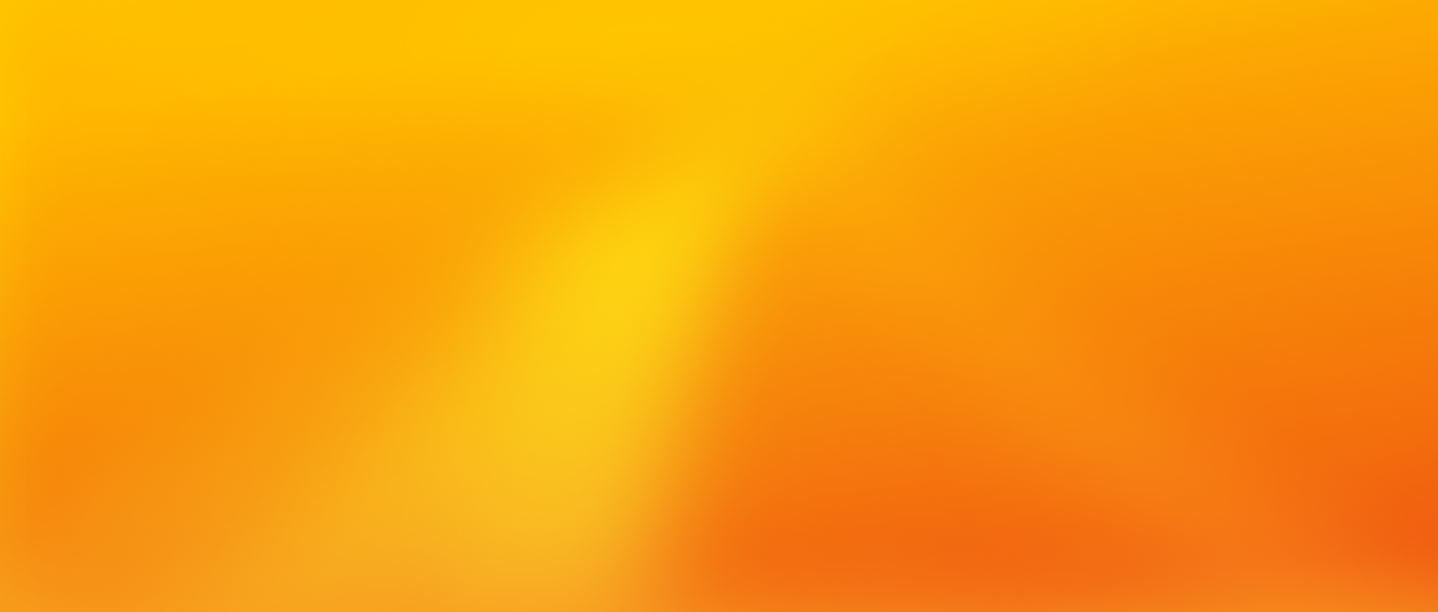
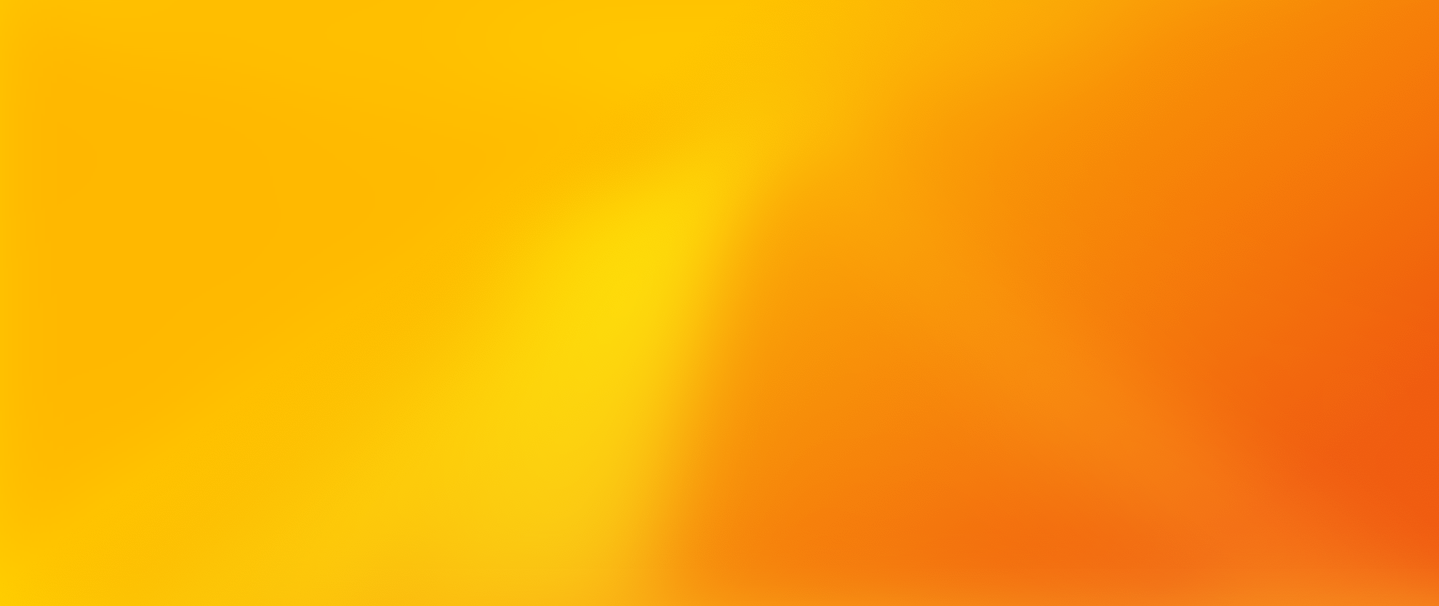
update

Changed region(s): [[0.0, 0.3861, 0.3366, 1.0], [0.7955, 0.0, 1.0, 0.5941]]

diff --git a/Vista-Motors-Dealer/index.html b/Vista-Motors-Dealer/index.html
@@ -11,9 +11,9 @@
     <title>Vista Motors Dealer</title>
 </head>
 <body>
-    <header>
-        <div class="container-fluid">
-            <nav class="navbar navbar-expand-lg navbar-dark bg-warning mr-auto">
+    <header class="background">
+        <div class="container">
+            <nav class="navbar navbar-expand-lg navbar-dark mr-auto" id="navbar">
                 <a class="navbar-brand" href="#">Vista Motors</a>
                 <button class="navbar-toggler" type="button" data-toggle="collapse" data-target="#navbarSupportedContent" aria-controls="navbarSupportedContent" aria-expanded="false" aria-label="Toggle navigation">
                     <span class="navbar-toggler-icon"></span>
@@ -33,7 +33,7 @@
                         <li class="nav-item">
                             <a class="nav-link" href="#">Đăng nhập</a>
                         </li>
-
+                        
                     </ul>
                 </div>
             </nav>
@@ -41,10 +41,86 @@
         
     </header>
     <section>
+        <div class="container">
+            <div class="jumbotron background">
+                <h1 class="display-4 text-center" style="color:white;">Find Your Dream Car</h1>
+                <p class="lead text-center" style="color:white;">Search over 20,000 pre-approved used cars and find your perfect vehicle today</p>
+                <div class="text-center">
+                    <a class="btn btn-primary btn-lg btn-success" href="#" role="button">Learn more</a>
+                </div>
+            </div>
+        </div>
         
+        <div class="section-1">
+            <div class="text-center">
+                <h2>Today’s Hottests Deals</h2>
+                <p>Check out the most popular cars in stock today</p>
+            </div>
+            <div class="text-center container-fluid">
+                <img src="img/Group 6.png" alt="">
+            </div>
+            <div class="text-center">
+                <a href="#" role="button" class="btn btn-primary btn-lg btn-warning" style="color: white">VIEW ALL TODAY'S DEALS</a>
+            </div>
+            <div class="p-3"></div>
+            <div class="buying-tips text-center">
+                <h2>Our Top Buying Tips</h2>
+                <p>Make sure you make the right choice picking a car</p>
+            </div>            
+        </div>
+        <div class="p-3"></div>
+        <div class="container">
+            <div class="row align-items-center">
+                <div class="col">
+                    <img src="img/Best Used Cars.png" alt="">
+                </div>
+                <div class="col">
+                    <img src="img/Buyers Checklist.png" alt="">
+                </div>
+                <div class="col">
+                    <img src="img/How to spot fraud.png" alt="">
+                </div>
+            </div>
+        </div>
+        <div class="p-3"></div>
+        <div class="section-2 background container">
+            <div class="container">
+                <h2 class="text-center" style="color:white">Never Miss A Message</h2>
+                <p class="text-center" style="color:white">Join our exclusive list for one off deals and more</p>
+                <form>
+                    <div class="form-group">
+                        <input type="email" class="form-control" id="exampleInputEmail1" aria-describedby="emailHelp" placeholder="Enter email">
+                    </div>
+                    <button type="submit" class="btn btn-primary">Submit</button>
+                </form>
+            </div>
+            
+        </div>
     </section>
-    <footer>
-        
+    <div class="p-4"></div>
+    <footer style="background: #342C2C" class="container">
+        <div class="container">
+            <nav class="navbar navbar-expand-lg navbar-dark mr-auto">
+                <a class="navbar-brand" href="#">Vista Motors</a>
+                <button class="navbar-toggler" type="button" data-toggle="collapse" data-target="#navbarSupportedContent" aria-controls="navbarSupportedContent" aria-expanded="false" aria-label="Toggle navigation">
+                    <span class="navbar-toggler-icon"></span>
+                </button>
+                
+                <div class="collapse navbar-collapse" id="navbarSupportedContent">
+                    <ul class="navbar-nav ml-auto">
+                        <li class="nav-item">
+                            <a class="nav-link" href="#">Tìm xe</a>
+                        </li>
+                        <li class="nav-item">
+                            <a class="nav-link" href="#">Mẹo mua xe</a>
+                        </li>
+                        <li class="nav-item">
+                            <a class="nav-link" href="#">Tài chính</a>
+                        </li>                        
+                    </ul>
+                </div>
+            </nav>
+        </div>
     </footer>
     
     <!-- Optional JavaScript -->

diff --git a/Vista-Motors-Dealer/css/style.css b/Vista-Motors-Dealer/css/style.css
@@ -1,3 +1,8 @@
 .background{
-    background-color: #FFD200;
+    background-image: url(../img/Background.png);
+    background-size: cover;
+}
+#navbar{
+    background-image: url(../img/Background.png);
+    background-size: cover;
 }
